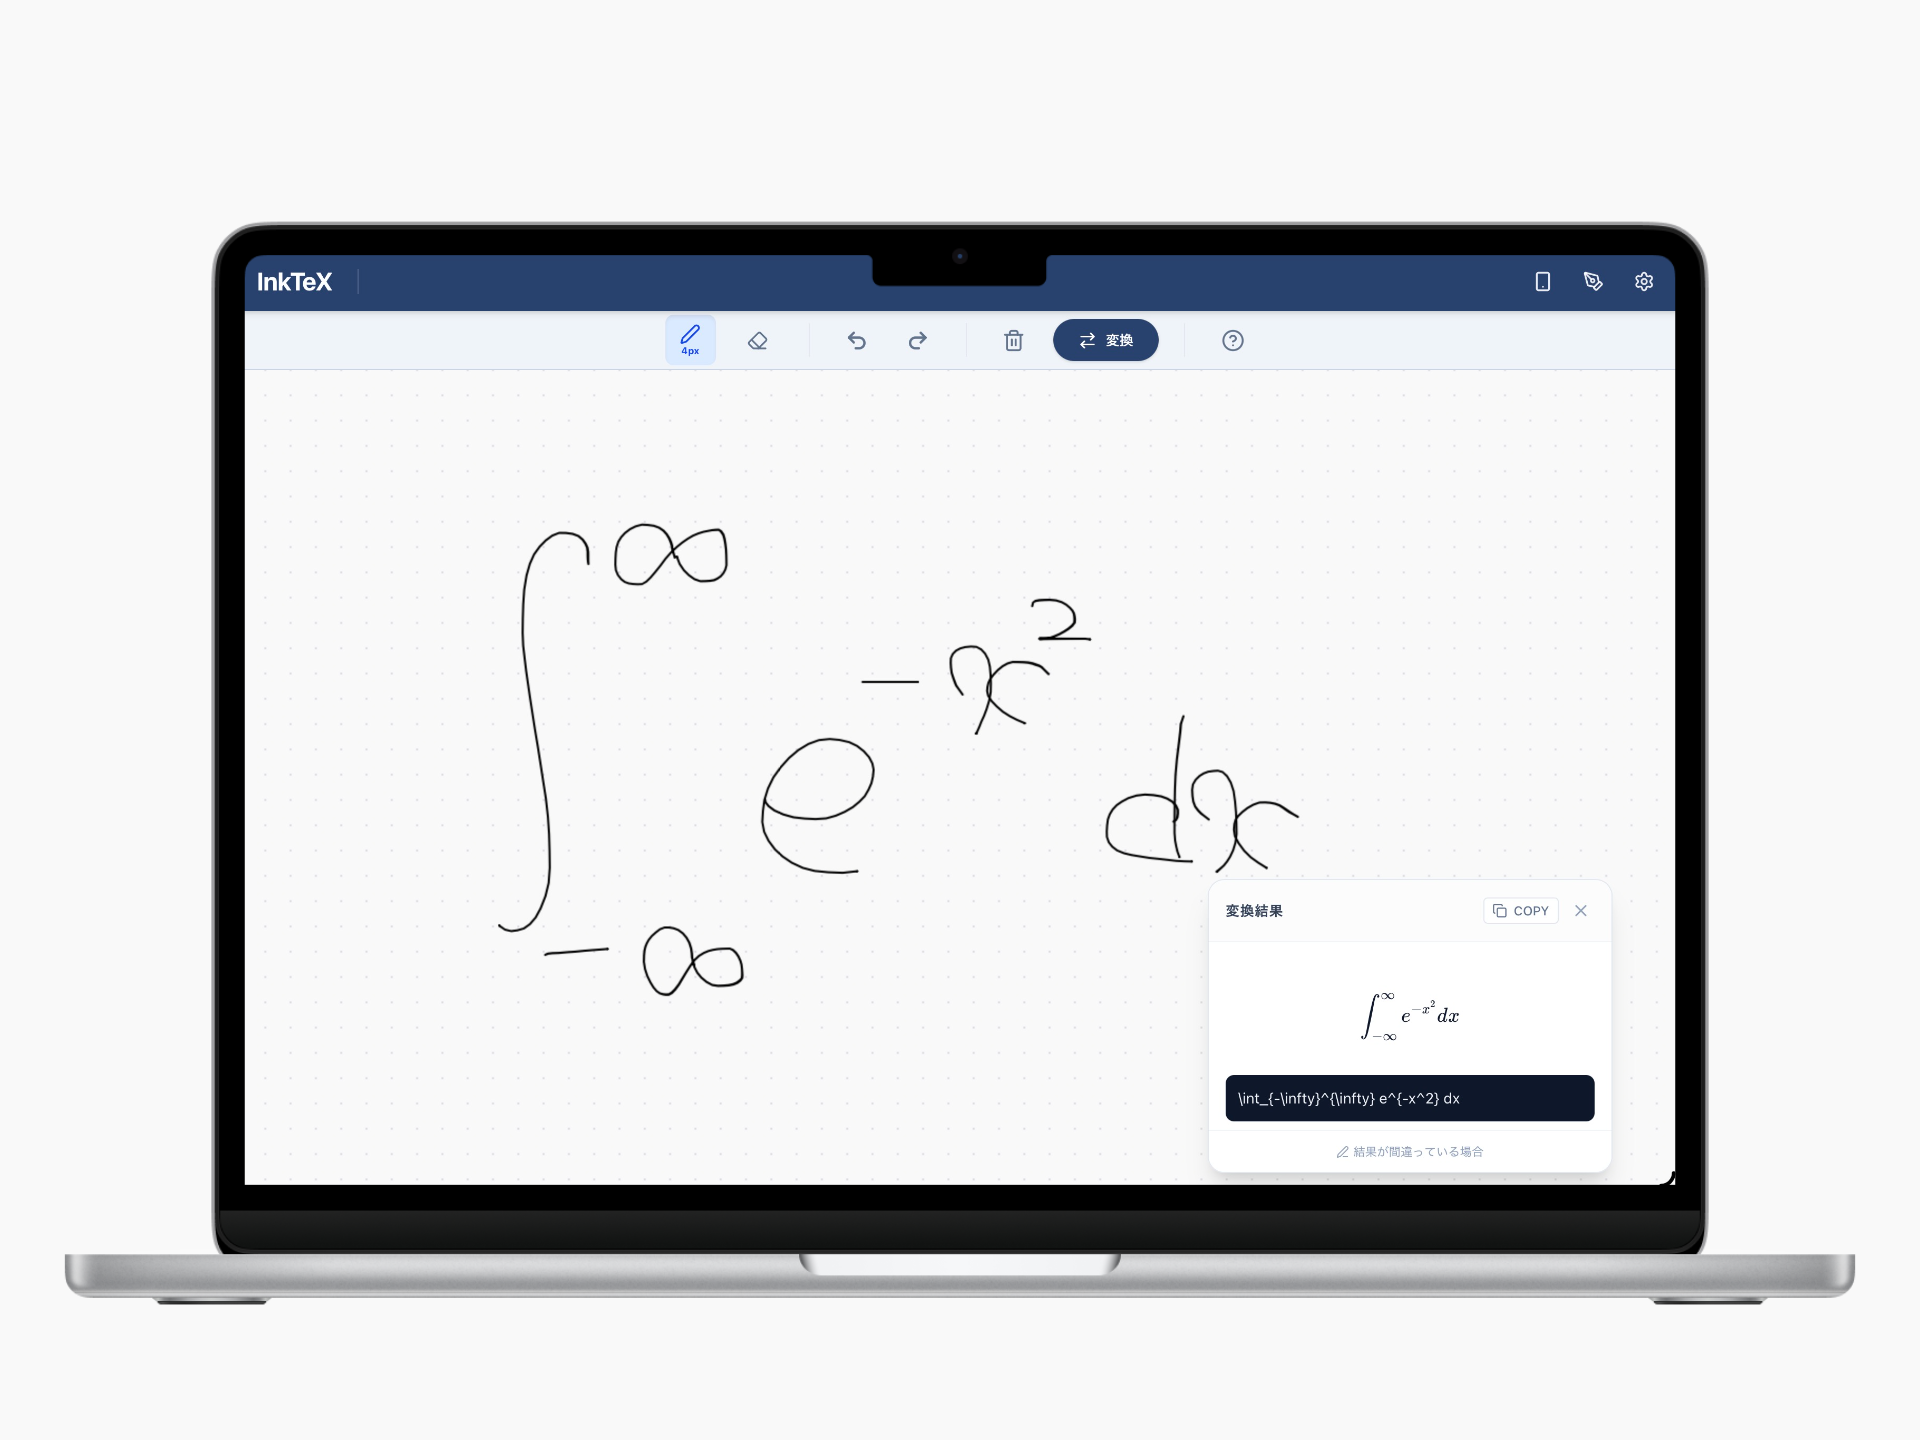
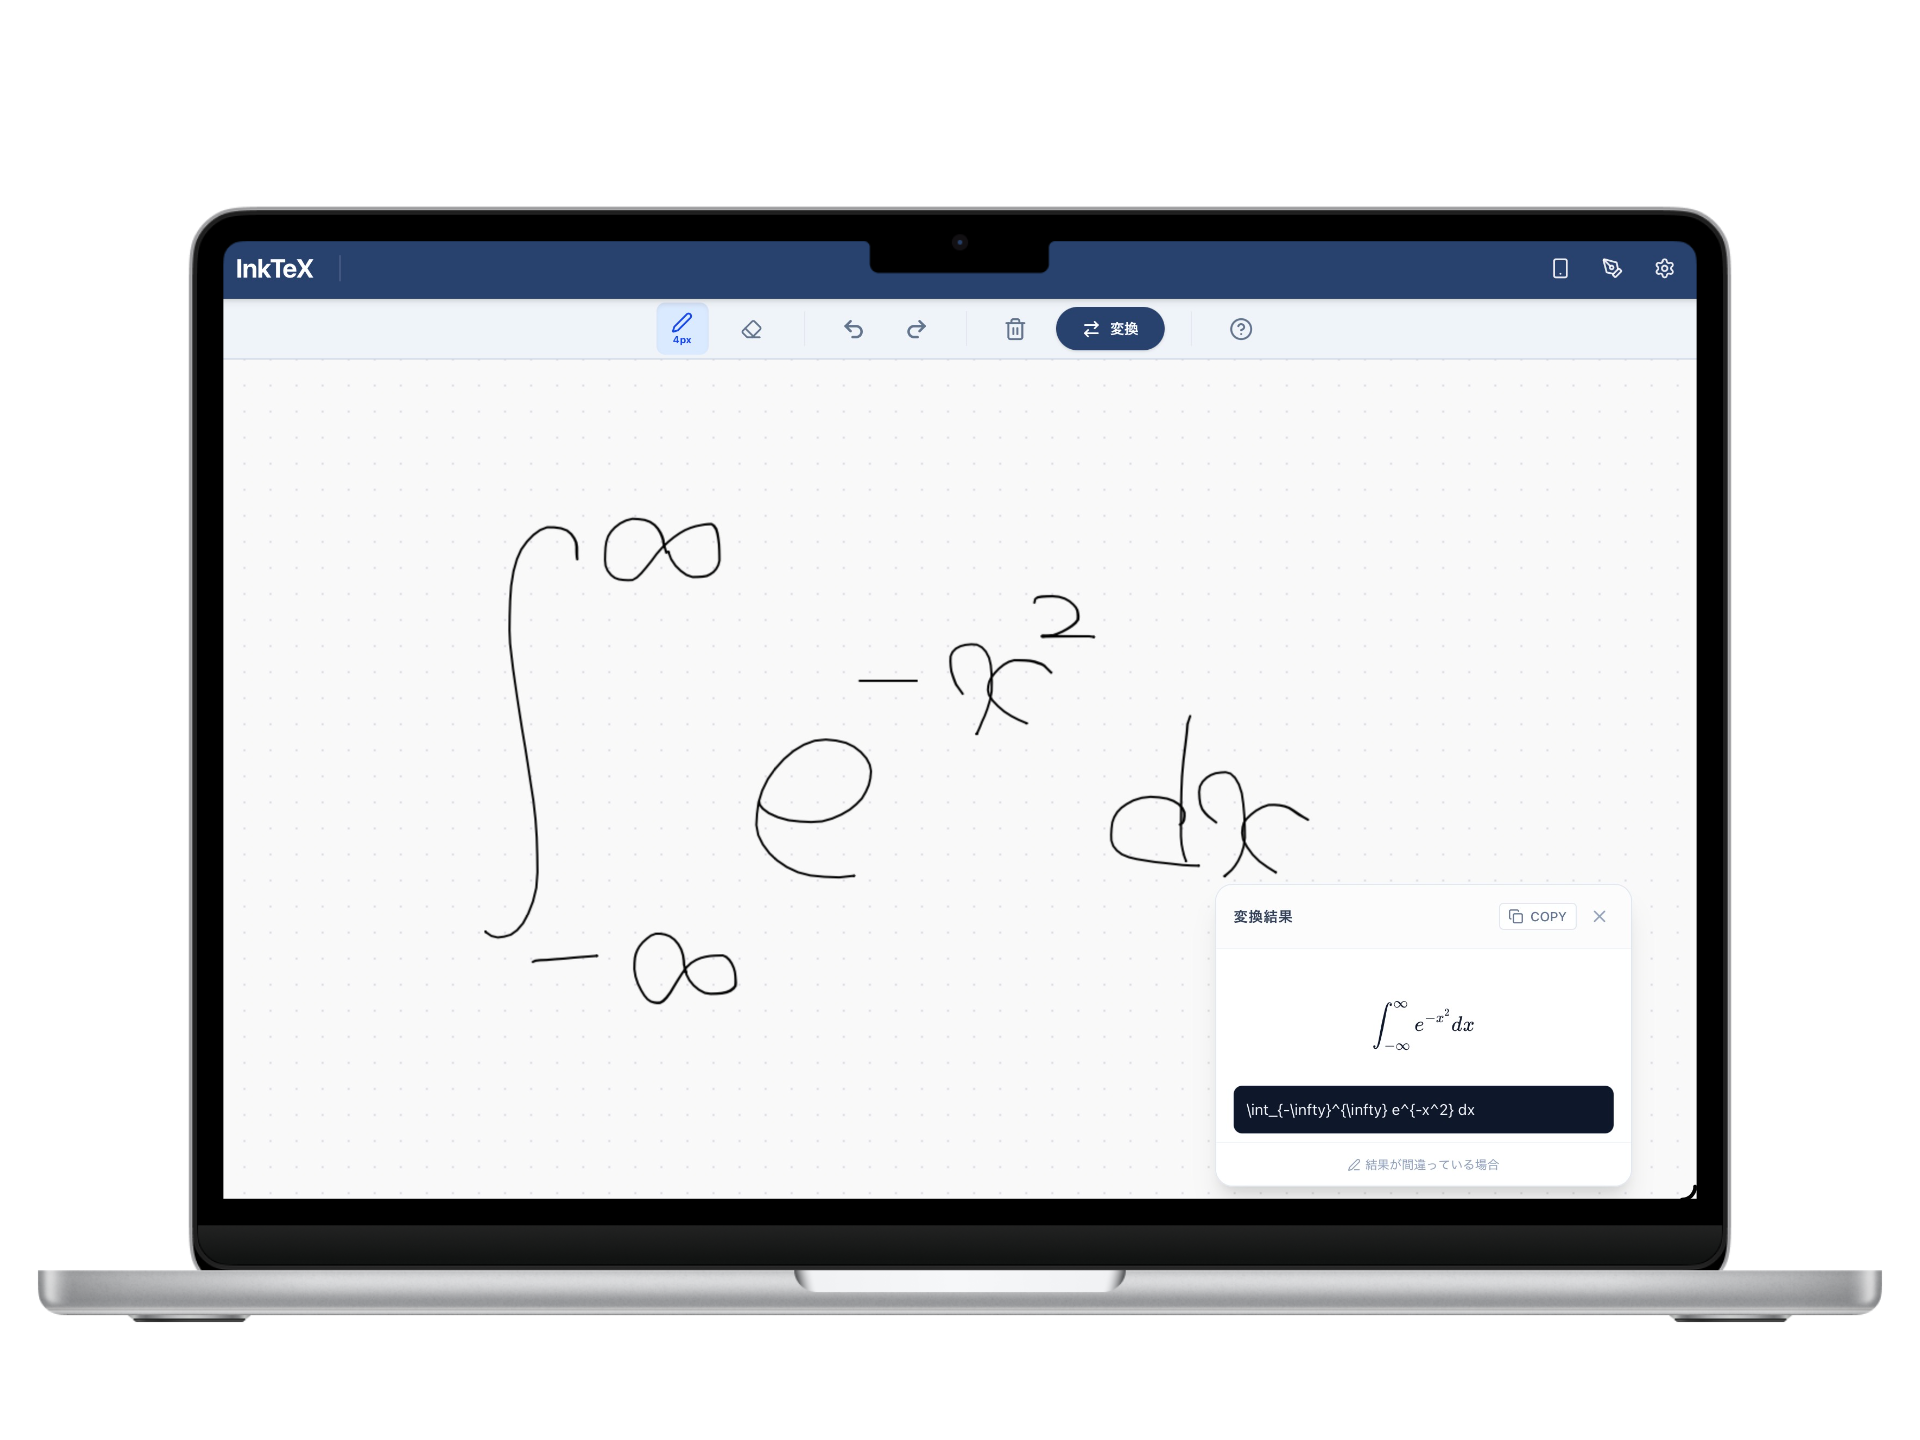
Fix FeatureSection syntax, remove animations, and refine styling

diff --git a/components/FeatureSection.tsx b/components/FeatureSection.tsx
@@ -44,36 +44,24 @@ export function FeatureSection() {
                 return (
                     <div
                         key={index}
-                        className={clsx(
-                            "py-20 md:py-24 px-6 md:px-12 w-full",
-                            isEven ? "bg-white" : "bg-slate-50"
-                        )}
+                        className="py-20 md:py-24 px-6 md:px-12 w-full bg-white"
                     >
                         <div className="max-w-6xl mx-auto flex flex-col md:flex-row items-center gap-12 md:gap-20">
 
                             {/* Image Container */}
                             <div className={clsx(
                                 "flex-1 w-full flex justify-center",
-                                // On Desktop: Swap order. Even (0, 2) = Image Left. Odd (1, 3) = Image Right.
-                                // Mobile: Always Image Top (Order 1), Text Bottom (Order 2) handled by flex-col default
                                 isEven ? "md:order-1" : "md:order-2"
                             )}>
-                                <div className="relative w-full max-w-[400px] aspect-[4/3] rounded-2xl overflow-hidden group hover:scale-[1.02] transition-transform duration-500">
-                                    {/* Placeholder Logic: Usually we use next/image. 
-                                        Since images don't exist yet, we show a nice fallback or try to load. 
-                                        We'll use standard Image component but it will break if file missing.
-                                        So for now, I'll add a colored placeholder fallback if image fails or just a styled div.
-                                        For this task, I will use Next/Image as requested but wrapping in a way that looks okay if empty?
-                                        Actually user said "Placeholders path... (replace later)". So standard Image is correct.
-                                    */}
-                                    <div className="absolute inset-0 bg-slate-200 animate-pulse" /> {/* Loading skeleton behind */}
+                                <div className="relative w-full max-w-[600px] aspect-[16/9] rounded-2xl overflow-hidden">
+                                    {/* Placeholder Logic */}
+                                    <div className="absolute inset-0 bg-slate-50" />
                                     <Image
                                         src={feature.image}
                                         alt={t(feature.titleKey)}
                                         fill
-                                        className="object-cover"
+                                        className="object-contain"
                                         onError={(e) => {
-                                            // Fallback visualization if needed, but usually better to let user provide images
                                             (e.target as HTMLImageElement).style.opacity = "0.5";
                                         }}
                                     />
